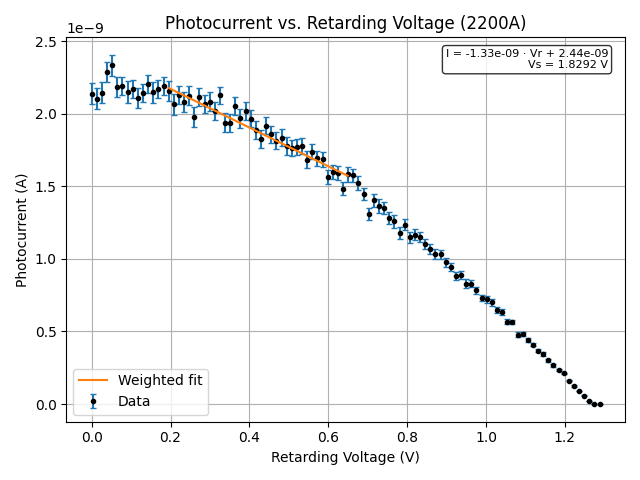
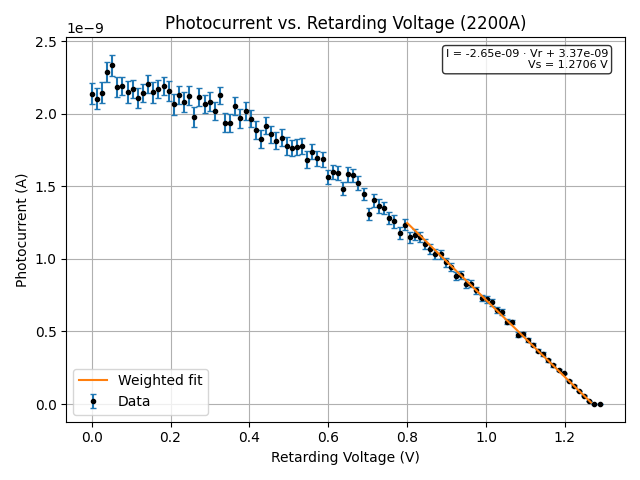
new commit new

diff --git a/Photoelectric Lab/analysis.py b/Photoelectric Lab/analysis.py
@@ -14,10 +14,10 @@ fit_ranges = {
     "1900A": (150, 500),
     "2000A": (150, 500),
     "2100A": (150, 500),
-    "2200A": (150, 500),
-    "2300A": (150, 500),
-    "2400A": (150, 500),
-    "2500A": (120, 450),
+    "2200A": (615, 974),
+    "2300A": (660, 964),
+    "2400A": (486, 957),
+    "2500A": (681, 991),
     "2600A": (600, 957),
     "2700A": (666, 982)
 }
